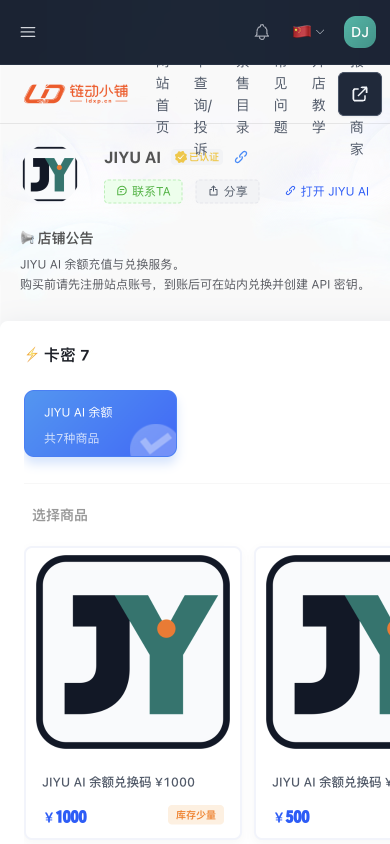
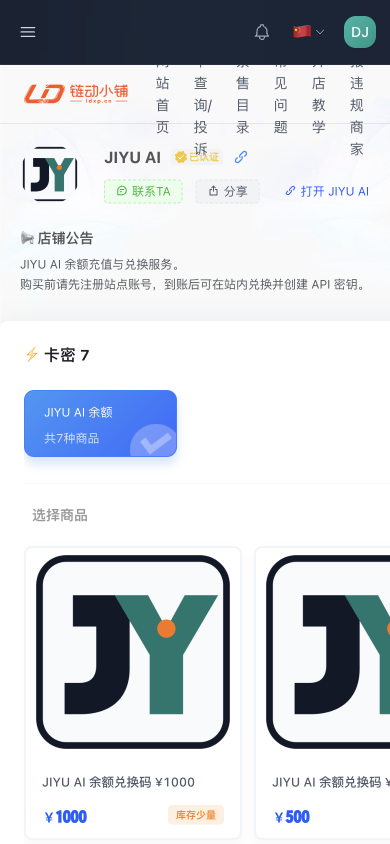
docs(jiyu): record final recharge evidence

Changed region(s): [[0.8615, 0.0616, 0.9846, 0.154]]

diff --git a/docs/009-health.md b/docs/009-health.md
@@ -45,7 +45,7 @@
 
 | 编号 | 分类 | 严重度 | 状态 | 当前结论 |
 |---|---|---|---|---|
-| HI-983 | `DEPLOY/SECURITY` | 🟠 重要 | 线上已关闭 | 旧主站 New-API 运行库、上游 Key、用户/Token/渠道/日志和回滚副本已按老板要求清理；Oracle 主站当前为基于官方 Sub2API `v0.1.172` 固定提交构建的 `v0.1.172-jiyu.31260440018`，只绑定 loopback `18080`，PostgreSQL/专用 Redis 均为独立实例。受管 WebUI 更新只安装带 JIYU 补丁的校验包，发布带完整备份、健康检查和失败回滚。 |
+| HI-983 | `DEPLOY/SECURITY` | 🟠 重要 | 线上已关闭 | 旧主站 New-API 运行库、上游 Key、用户/Token/渠道/日志和回滚副本已按老板要求清理；Oracle 主站当前为基于官方 Sub2API `v0.1.172` 固定提交构建的 `v0.1.172-jiyu.31261229885`，只绑定 loopback `18080`，PostgreSQL/专用 Redis 均为独立实例。受管 WebUI 更新只安装带 JIYU 补丁的校验包，发布带完整备份、健康检查和失败回滚。 |
 | HI-984 | `INFRA` | 🟡 一般 | 线上已关闭 | 旧 R2 备份脚本原先强制备份 `one-api.db`，会在清理后失败或重新制造旧底座副本；已移除该来源，删除 19 个旧 R2 对象，重新生成只含 `runtime.json` 与 `application.env` 的加密回程备份。Sub2API 自己由 `sub2api-backup.timer` 每日做 PostgreSQL 一致性备份。 |
 | HI-985 | `DEPLOY/AI_POOL` | 🟡 一般 | 内测可运营，持续观测 | 渠道A与渠道B各 5 个文本专用 Key，加上 2 个生图专用账号；12 个分组和 12 个一对一渠道已建立。10 条文本监控按 300±30 秒运行；2 条生图监控保存同样合同和加密凭据，但因上游 502/401 保持禁用。文本用户倍率相对当前上游倍率绝对增加 `0.05x`；生图按上游每张价格绝对增加 `0.05`。 |
 | HI-986 | `FRONTEND/SECURITY` | 🟡 一般 | 线上已关闭 | 登录条款、邮箱验证码和邮件模板已品牌化；创建密钥按 Claude/OpenAI 分组显示正确端点并默认导入 CC Switch。首页、标题、版本徽标和管理员菜单已清理供货上游品牌/仓库残留；按老板确认，Anthropic/OpenAI/Grok 作为模型/API 生态标签保留，匿名化对象仅限真实供货上游及域名。 |
@@ -53,10 +53,10 @@
 | HI-988 | `OPS` | 🟠 重要 | 持续观测 | 10 条真实监控当前存在上游错误与降级样本，这是线路真实状态而非前端故障。正式售卖前需逐条恢复或制定对用户透明的降级策略；禁止直接改状态为绿色。 |
 | HI-989 | `SECURITY/ARCH_LIMIT` | 🟡 一般 | 方案待实施 | 当前 CC Switch 官方导入协议仍把新建 Key 作为本机深链参数传递；虽然只发往本机应用，仍可能进入浏览器历史或系统日志。建议后续改为同域一次性导入票据，并在 JIYU Switch 中默认开启用量查询和本地路由转发。 |
 | HI-990 | `BUSINESS` | 🟠 重要 | 库存阻塞 | 闲鱼/CC readiness v2 已如实返回 10×10 合同，但自动发货仍暂停且可用兑换码库存为 0，正式售卖门保持关闭。补库存、恢复 owner-loop 并完成真实小额同单验收前不得公开售卖。 |
-| HI-991 | `PERF/QA` | 🔵 低优先 | 本轮双视口证据已关闭，历史矩阵待补 | 文档下载区和充值中心均已在 1440×1000、390×844 生成真实改后截图。充值 iframe 分别为 `1176×936` 与 `390×780`，查询参数、Console 异常和失败请求均为零；移动端外层无横向页面溢出。链动小铺自身在 390px 内仍使用横向商品滑动并压缩顶部导航，这是第三方页面内布局，不会撑宽 JIYU 外层，需后续跟随链动上游改版复核。全站双主题、同一登录态全页面矩阵仍是历史审计缺口。 |
+| HI-991 | `PERF/QA` | 🔵 低优先 | 本轮双视口证据已关闭，历史矩阵待补 | 文档下载区和充值中心均已在 1440×1000、390×844 生成真实改后截图。充值 iframe 分别为 `1176×936` 与 `390×780`，查询参数、Console 异常和失败请求均为零；移动端外层无横向页面溢出，专用外链兜底按钮已隐藏，不再遮挡第三方导航。链动小铺自身在 390px 内仍使用横向商品滑动并压缩顶部导航，这是第三方页面内布局，不会撑宽 JIYU 外层，需后续跟随链动上游改版复核。全站双主题、同一登录态全页面矩阵仍是历史审计缺口。 |
 | HI-992 | `SECURITY` | 🟠 重要 | iframe 精确放行已关闭，其余策略待收紧 | 生产 CSP 保持 nonce、`frame-ancestors 'none'` 和 `form-action 'self'`；链动整店只通过原生 `security.csp.policy` 在 `frame-src` 精确增加 `https://pay.ldxp.cn`，未放宽脚本或连接来源。`connect-src https:` 与 `img-src https:` 仍允许任意 HTTPS，且 Permissions-Policy 仍待补；收紧前需盘点支付、验证码、对象存储和 OAuth 真实域名，采用 report-only 观察后再切强制策略。 |
 | HI-993 | `OPS` | 🟠 重要 | 余额提醒已启用，账号限额待确认 | 8 条运维告警规则与 SMTP 保持启用；余额不足邮件提醒已开启，默认阈值 `$1`，按钮指向同源充值中心。账号限额通知和通知邮箱列表仍保持原值，需先确认收件人、去重与静默窗口，避免直接打开造成邮件轰炸。 |
-| HI-994 | `DEPLOY/ARCH_LIMIT` | 🟠 重要 | 线上已关闭 | 旧 Apache 拦截曾把更新错误截成 `status c`。现生产已启用 CI 兼容包、`jiyu-latest` 移动清单、SHA-256/大小/架构校验、root 管理的 systemd Unix 激活套接字、原子暂存与独立哈希/健康验证；应用继续保留 `NoNewPrivileges`，旧 sudoers 已删除。首个候选因未嵌入前端导致首页 404，被真实 GET 门发现并回滚；当前 `v0.1.172-jiyu.31260440018` 的首页、充值页和健康接口均为 200。定时任务跳过已适配基础版；同上游版本的手动修订使用不可变 `-r<run_id>` 发布。 |
+| HI-994 | `DEPLOY/ARCH_LIMIT` | 🟠 重要 | 线上已关闭 | 旧 Apache 拦截曾把更新错误截成 `status c`。现生产已启用 CI 兼容包、`jiyu-latest` 移动清单、SHA-256/大小/架构校验、root 管理的 systemd Unix 激活套接字、原子暂存与独立哈希/健康验证；应用继续保留 `NoNewPrivileges`，旧 sudoers 已删除。首个候选因未嵌入前端导致首页 404，被真实 GET 门发现并回滚；当前 `v0.1.172-jiyu.31261229885` 的首页、充值页和健康接口均为 200。定时任务跳过已适配基础版；同上游版本的手动修订使用不可变 `-r<run_id>` 发布。 |
 | HI-995 | `AI_POOL/BUSINESS` | 🟠 重要 | 渠道已建，上游阻塞 | 两个匿名生图分组、账号、渠道和 300±30 秒监控配置均已建立，仅开放 `gpt-image-2`。渠道A按上游 `0.05/张` 定价 `0.10/张`，真实调用返回 `502 Upstream access forbidden`；渠道B高质量组按 `0.07/张` 定价 `0.12/张`，专用 Key 返回 `401 invalid token`。两条监控保持禁用，不伪造绿色、不持续付费探测。 |
 | HI-996 | `BUG/SECURITY` | 🟠 重要 | 本机运行时已重建，专用站内 Key 待创建 | 已删除 CC Switch 中两个指向缺失脚本的旧条目，安装基于官方 MCP SDK `1.30.0` 的 `jiyu-ai-image` stdio MCP，并同步 Claude、Codex、OpenCode；该版本修复 `1.29.0` 传递依赖的中危路径穿越公告，生产依赖审计为 0。MCP 只允许 JIYU 固定域名、单图、20 MiB 上限且付费 POST 不自动重试；当前钥匙串未配置站内生图专用 Key，因此失败关闭，待上游 502/401 修复后做一次真实单图验收。 |
 | HI-997 | `SECURITY` | 🟡 一般 | 剩余 1 项上游架构风险 | main 推送回执从 31 项降至 9、3，最终只剩 Tauri 最新 `2.11.5` 在 Linux 目标锁入的 `glib 0.18.5` 中危；可直接修复的 `h2/hpack/pypdf/js-yaml/nanoid` 均已升级。`glib 0.20` 需要 GTK/Tauri 依赖链迁移，当前 macOS 生产目标不执行该 Linux 路径，本轮不为清零数字强升 GUI 栈。 |

diff --git a/docs/006-registries.md b/docs/006-registries.md
@@ -9,11 +9,11 @@
 | 类型 | 唯一事实源 / 入口 | 当前合同 |
 |---|---|---|
 | 对外品牌 | `JIYU AI` / `Unified AI API Gateway` | 通过 Sub2API OEM `site_name`、`site_subtitle` 保存到 PostgreSQL；登录页、首页、侧边栏和浏览器标题统一读取该设置 |
-| 生产底座 | Oracle `jiyu.245334.xyz` / `sub2api.service` | 基于官方 Sub2API `v0.1.172` 固定提交构建的 `v0.1.172-jiyu.31260440018` ARM64 二进制；JIYU 补丁可从官方提交重复应用，主进程只绑定 `127.0.0.1:18080` |
+| 生产底座 | Oracle `jiyu.245334.xyz` / `sub2api.service` | 基于官方 Sub2API `v0.1.172` 固定提交构建的 `v0.1.172-jiyu.31261229885` ARM64 二进制；JIYU 补丁可从官方提交重复应用，主进程只绑定 `127.0.0.1:18080` |
 | 数据库 | PostgreSQL 16 `sub2api` | 独立角色、独立数据库；首次安装不导入 New-API 用户、Key、渠道、兑换码、日志或上游凭据；当前只保留 1 个管理员 |
 | 缓存 | `sub2api-redis.service` | 专用 Redis 7 实例，绑定 `127.0.0.1:16379`，密码只保存在 Oracle `/etc/sub2api/sub2api.env` |
 | 管理脚本 | `scripts/sub2api_oracle_manage.sh` / Oracle `/usr/local/sbin/openclaw-sub2api-manager` | `install-jiyu-build <path>` 用于完整发布；`stage-jiyu-build <path>` 原子暂存已校验二进制，并调度独立 systemd 任务在 WebUI 重启后核对运行哈希和健康状态；`recharge-center` 原子维护最小回退页和精确 `frame-src`；`enable-web-update <broker> <manifest-url>` 安装固定 root 更新代理 |
-| 自动更新 | `.github/workflows/sub2api-jiyu-compat.yml` + `scripts/sub2api_jiyu_update_broker.sh` + `sub2api-update.timer` | CI 从官方稳定标签构建带 JIYU 补丁的 ARM64 兼容包并生成 SHA-256 清单；定时任务跳过已适配基础版，手动同版本修订发布为不可变 `-r<run_id>` 标签，旧工件不覆盖。WebUI 后端只能无参数调用 root 代理下载、校验和暂存。当前生产 `v0.1.172-jiyu.31260440018` 已启用受管 WebUI 更新 |
+| 自动更新 | `.github/workflows/sub2api-jiyu-compat.yml` + `scripts/sub2api_jiyu_update_broker.sh` + `sub2api-update.timer` | CI 从官方稳定标签构建带 JIYU 补丁的 ARM64 兼容包并生成 SHA-256 清单；定时任务跳过已适配基础版，手动同版本修订发布为不可变 `-r<run_id>` 标签，旧工件不覆盖。WebUI 后端只能无参数调用 root 代理下载、校验和暂存。当前生产 `v0.1.172-jiyu.31261229885` 已启用受管 WebUI 更新 |
 | 自动备份 | `sub2api-backup.timer` / `sub2api-backup.service` | 每日 03:40（Asia/Singapore，随机延迟 15 分钟）备份 PostgreSQL、二进制、版本和 root-only 环境文件；本地 `/var/backups/sub2api` 保留 30 天 |
 | 管理员账号 | `djblack1209@gmail.com` | 当前唯一管理员；密码不写仓库，已存入 macOS 钥匙串服务“CC中转 Sub2API 管理员” |
 | 凭据保管 | Oracle `/etc/sub2api/sub2api.env` + 本机钥匙串 | Oracle env `0600 root-only`；修改管理员密码后同步更新这两处并做真实登录验证 |

diff --git a/docs/002-changelog.md b/docs/002-changelog.md
@@ -21,9 +21,9 @@
 - `scripts/assets/audit-jiyu-docs-downloads-after-desktop-20260808.png`、`scripts/assets/audit-jiyu-docs-downloads-after-mobile-20260808.png` — 文档下载区双视口证据。
 - `docs/002-changelog.md`、`docs/007-operations.md`、`docs/009-health.md` — 同步生产操作与剩余安全边界。
 ### 验证
-- 官方 `v0.1.172` 干净源码应用补丁后，前端 `vue-tsc --noEmit` 和生产构建通过；Bash 语法、ShellCheck、4 项聚焦脚本合同和文档检查通过。GitHub Actions `31260440018` 完成类型检查、嵌入前端门、Go 聚焦测试和 ARM64 构建。
-- 生产已发布 `v0.1.172-jiyu.31260440018`，运行二进制 SHA-256 与不可变发布清单一致，`/health` 和充值页均为 HTTP 200，CSP 只在 `frame-src` 出现一次 `https://pay.ldxp.cn`。
-- 真实 Chrome 在 `1440×1000` 记录 iframe `1176×936`，在 `390×844` 记录 `390×780`；两者均占满扣除 64px 顶栏后的内容区，不存在 Markdown/目录、URL 查询参数、横向页面溢出、Console 异常或失败网络请求，七档商品正文可见。
+- 官方 `v0.1.172` 干净源码应用补丁后，前端 `vue-tsc --noEmit` 和生产构建通过；Bash 语法、ShellCheck、4 项聚焦脚本合同和文档检查通过。GitHub Actions `31261229885` 完成类型检查、嵌入前端门、Go 聚焦测试和 ARM64 构建。
+- 生产已发布 `v0.1.172-jiyu.31261229885`，运行二进制 SHA-256 与不可变发布清单一致，`/health` 和充值页均为 HTTP 200，CSP 只在 `frame-src` 出现一次 `https://pay.ldxp.cn`。
+- 真实 Chrome 在 `1440×1000` 记录 iframe `1176×936`，在 `390×844` 记录 `390×780`；两者均占满扣除 64px 顶栏后的内容区。移动端外链兜底按钮为 `display:none`，不遮挡链动导航；不存在 Markdown/目录、URL 查询参数、外层横向页面溢出、Console 异常或失败网络请求，七档商品正文可见。
 
 ## [2026-08-08] JIYU Claude 透传、Passkey 与链动充值中心闭环
 > 领域: `frontend` | `backend` | `ai-pool` | `deploy` | `docs`

diff --git a/docs/007-operations.md b/docs/007-operations.md
@@ -5,7 +5,7 @@
 
 ## 2026-08-08 当前主站：JIYU AI（Sub2API 底座）
 
-当前用户主站 `https://jiyu.245334.xyz` 的对外品牌为 `JIYU AI`，运行基于官方 Sub2API `v0.1.172` 固定提交构建的 `v0.1.172-jiyu.31260440018`。JIYU 改动以仓库补丁固化，WebUI 只安装通过聚焦门和完整性清单的 JIYU 兼容包，不会用官方原版覆盖定制。
+当前用户主站 `https://jiyu.245334.xyz` 的对外品牌为 `JIYU AI`，运行基于官方 Sub2API `v0.1.172` 固定提交构建的 `v0.1.172-jiyu.31261229885`。JIYU 改动以仓库补丁固化，WebUI 只安装通过聚焦门和完整性清单的 JIYU 兼容包，不会用官方原版覆盖定制。
 
 | 项目 | 当前值 |
 |---|---|
